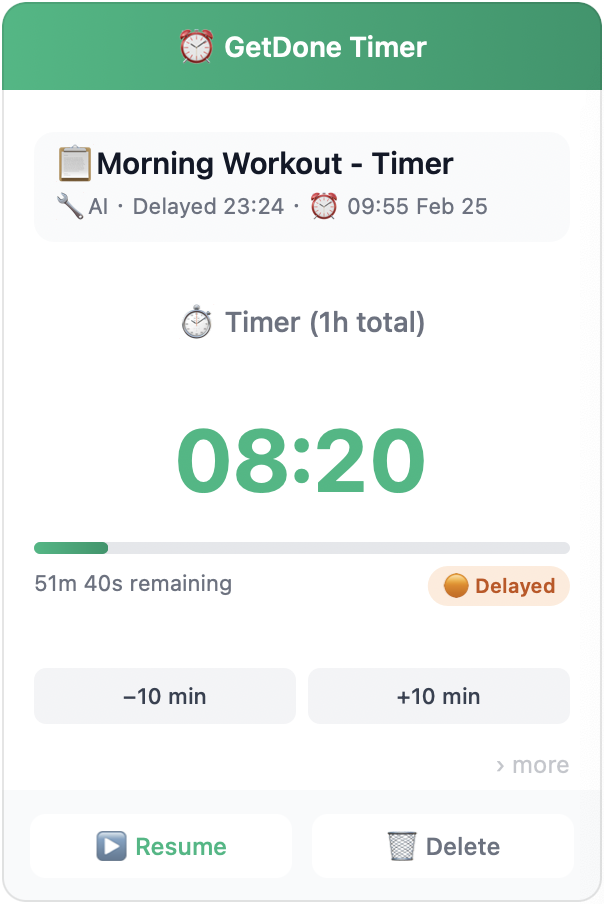
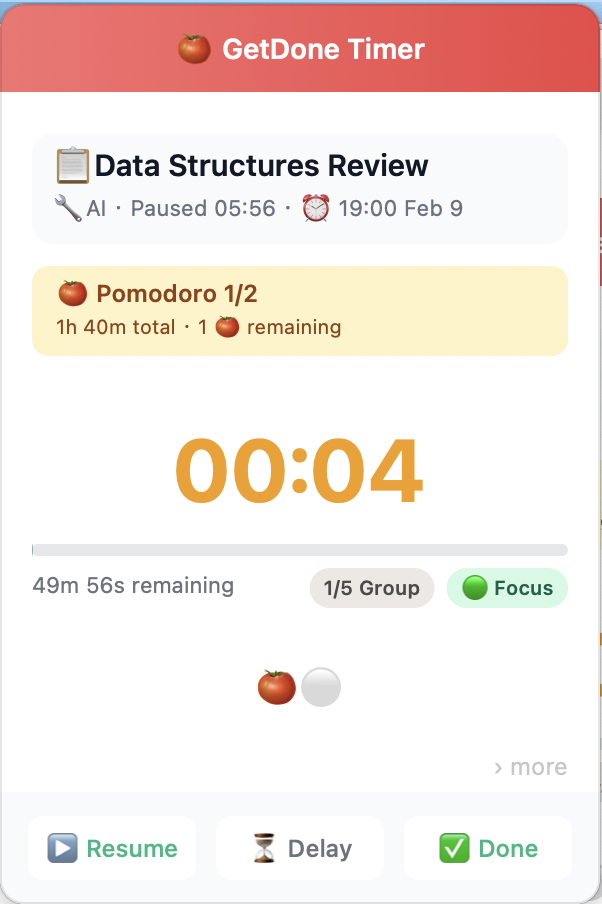
Update menu bar card screenshot and description
- Replace card.png with Pomodoro menubar screenshot
- Update text to describe active task states (Running/Paused)
- List footer button actions for each state

diff --git a/guide.html b/guide.html
@@ -100,8 +100,9 @@
             <img src="images/card.png" alt="Menu bar card">
         </div>
         <div class="text">
-            <h3>This is your menu bar card</h3>
-            <p>Click the <kbd>DONE</kbd> icon in the macOS menu bar to open this popup. It shows your current task with timer, controls, and quick actions.</p>
+            <h3>Menu bar card — your active task</h3>
+            <p>Click the <kbd>DONE</kbd> icon in the macOS menu bar to open this popup. It shows your currently running or paused task with live countdown, progress, and quick actions.</p>
+            <p style="margin-top: 8px;"><strong>Running</strong> → <em>Pause / Delay / Done</em><br><strong>Paused</strong> → <em>Resume / Delay / Done</em></p>
         </div>
     </div>
 
